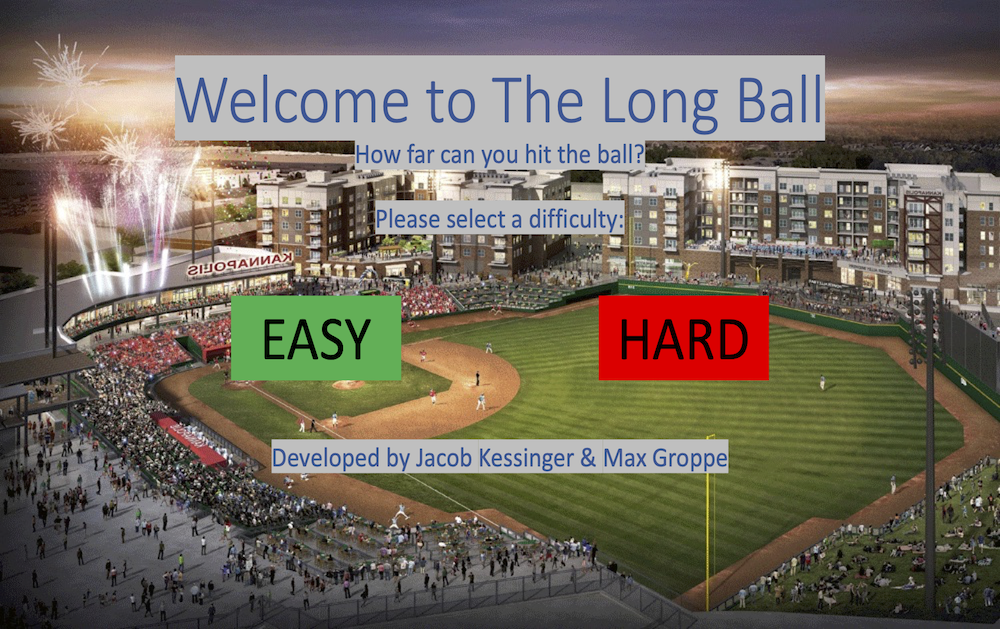
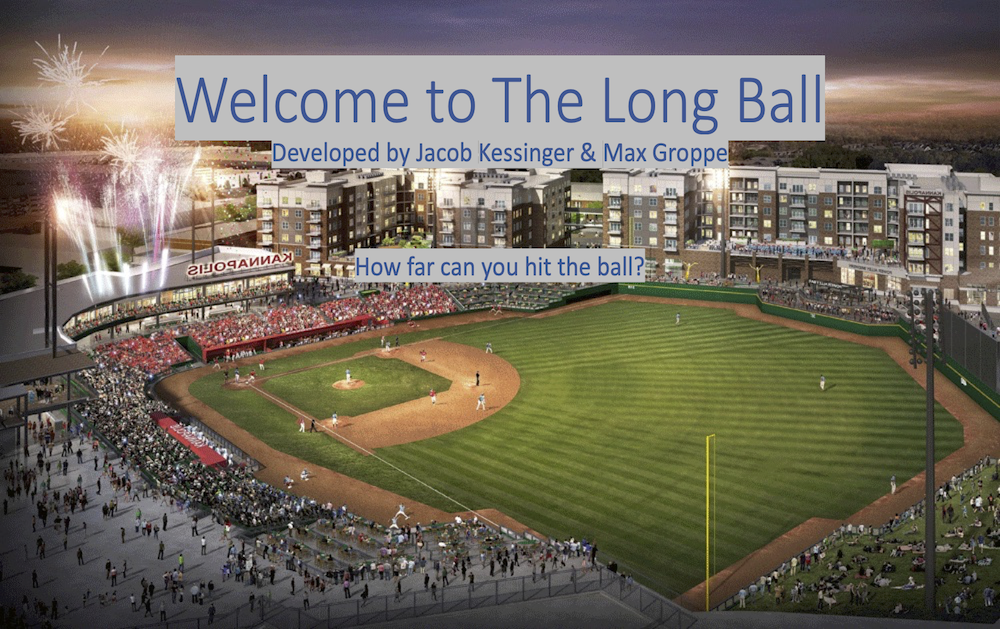
Cleaned  gameover screen, Working on titlescreen

Changed region(s): [[0.217, 0.3021, 0.775, 0.6041], [0.248, 0.6948, 0.744, 0.7552], [0.248, 0.2114, 0.744, 0.2719]]

diff --git a/TheLongBall/longBall.js b/TheLongBall/longBall.js
@@ -33,13 +33,23 @@ var constant;
 var gap = 120; //variable for distance between gloves
 var points = 0; //start at zero score
 let resetButton;
+let startButton;
 var gameState = true;
+var gameBegin = false;
 
 function setup() {
   resetButton = createButton("RESTART");
-  resetButton.position(470, 450);
+  resetButton.position(465, 400);
   resetButton.mousePressed(restart);
   resetButton.hide();
+  startButton = createButton("START");
+  startButton.position(465, 400);
+  startButton.mousePressed(startGame);
+  startButton.hide();
+}
+
+function startGame() {
+  gameBegin = true;
 }
 
 function restart() {
@@ -61,6 +71,7 @@ player[0] = {
 };
 
 function drawGame() {
+  // if (gameBegin === true) {
   if (gameState === true) {
     pullImage.drawImage(stadium, 0, 0);
 
@@ -112,11 +123,16 @@ function drawGame() {
   }
   if (gameState === false) {
     pullImage.drawImage(stadium, 0, 0);
-    pullImage.fillStyle = "#ff3030"; //white
+    pullImage.fillStyle = "#ee0000"; //white
     pullImage.font = "60px BadaBoomBB"; //change this to cool font
-    pullImage.fillText("GAME OVER", 320, 250);
-    pullImage.fillText("Your score was: " + points + " feet", 245, 300);
+    pullImage.fillText("GAME OVER", 320, 100);
+    pullImage.fillText("Score: " + points + "", 390, 360);
   }
+  // }
+  // if (gameBegin === false) {
+  //   pullImage.drawImage(titleScreen, 0, 0);
+  //   startButton.show();
+  // }
   requestAnimationFrame(drawGame); //similar to a for loop but draws animations more smoothly
 }
 

diff --git a/TheLongBall/index.html b/TheLongBall/index.html
@@ -4,8 +4,8 @@
     <title>The Long Ball | by Jake Kessinger & Max Groppe</title>
   </head>
   <body>
-    <h1>The Long Ball</h1>
-    <h4>Developers: Jake Kessinger & Max Groppe</h4>
+    <!-- <h1>The Long Ball</h1>
+    <h4>Developers: Jake Kessinger & Max Groppe</h4> -->
 
     <canvas id="canvas" width="1000" height="590"></canvas>
     <script src="libraries/p5.js"></script>
